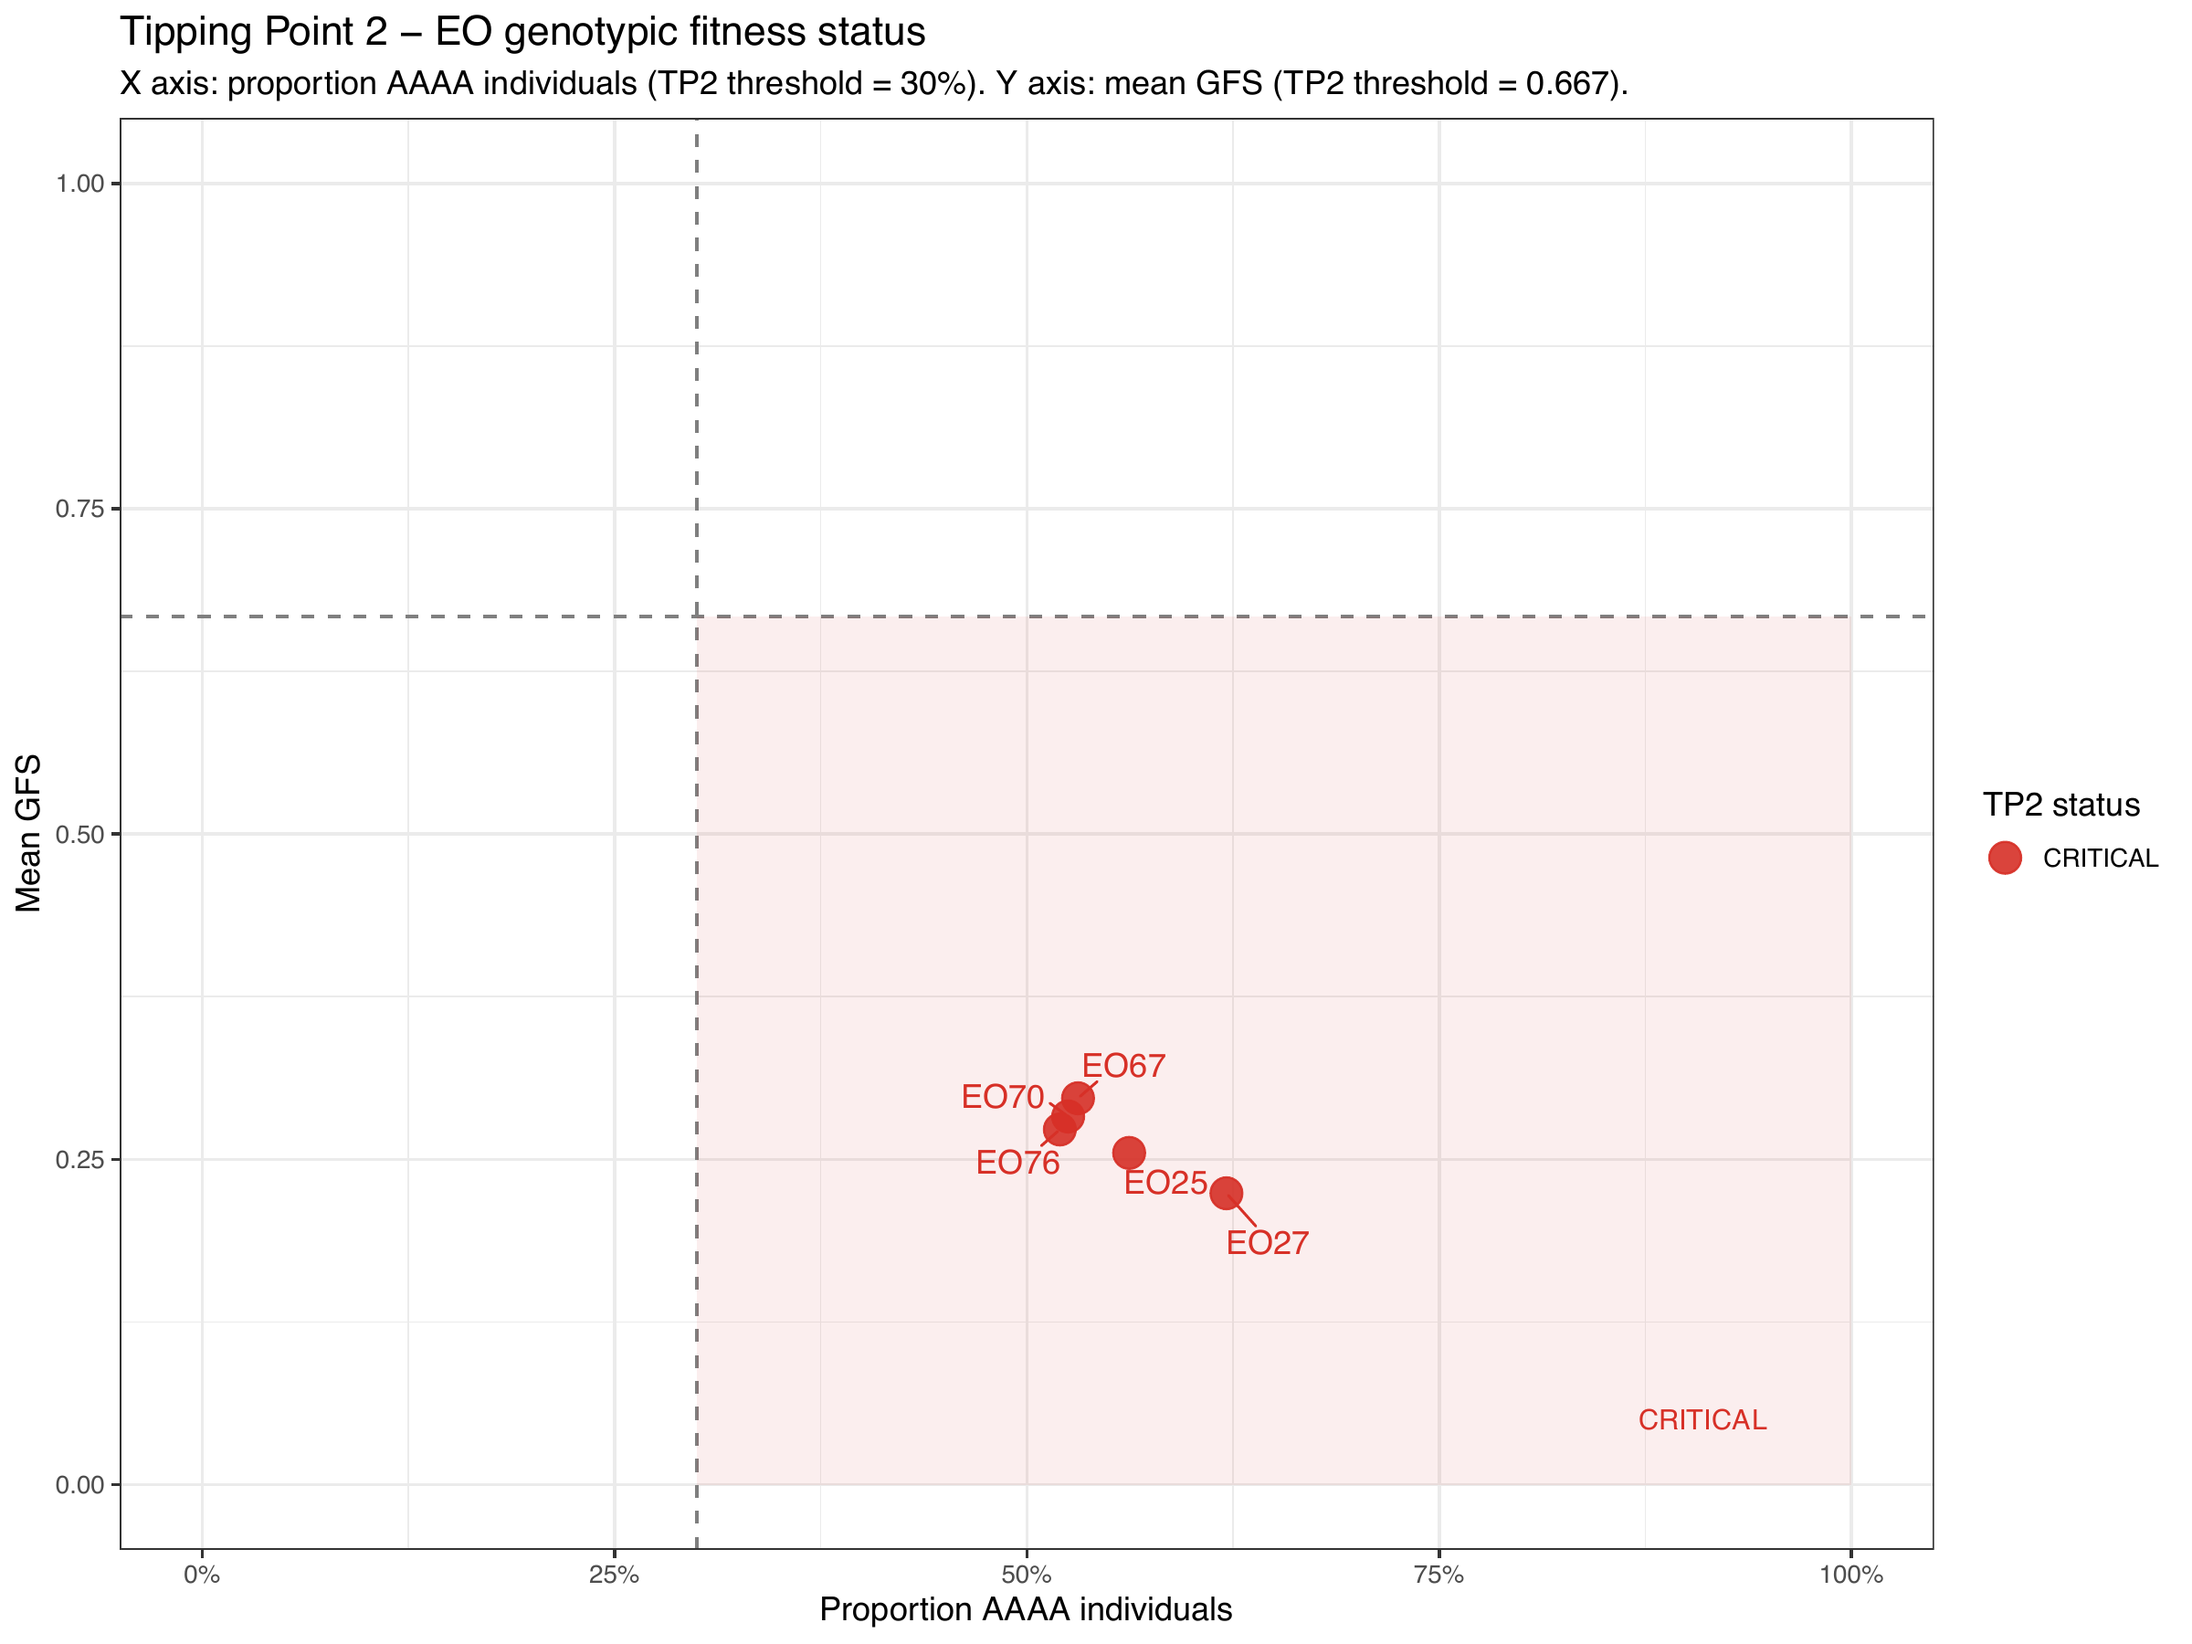
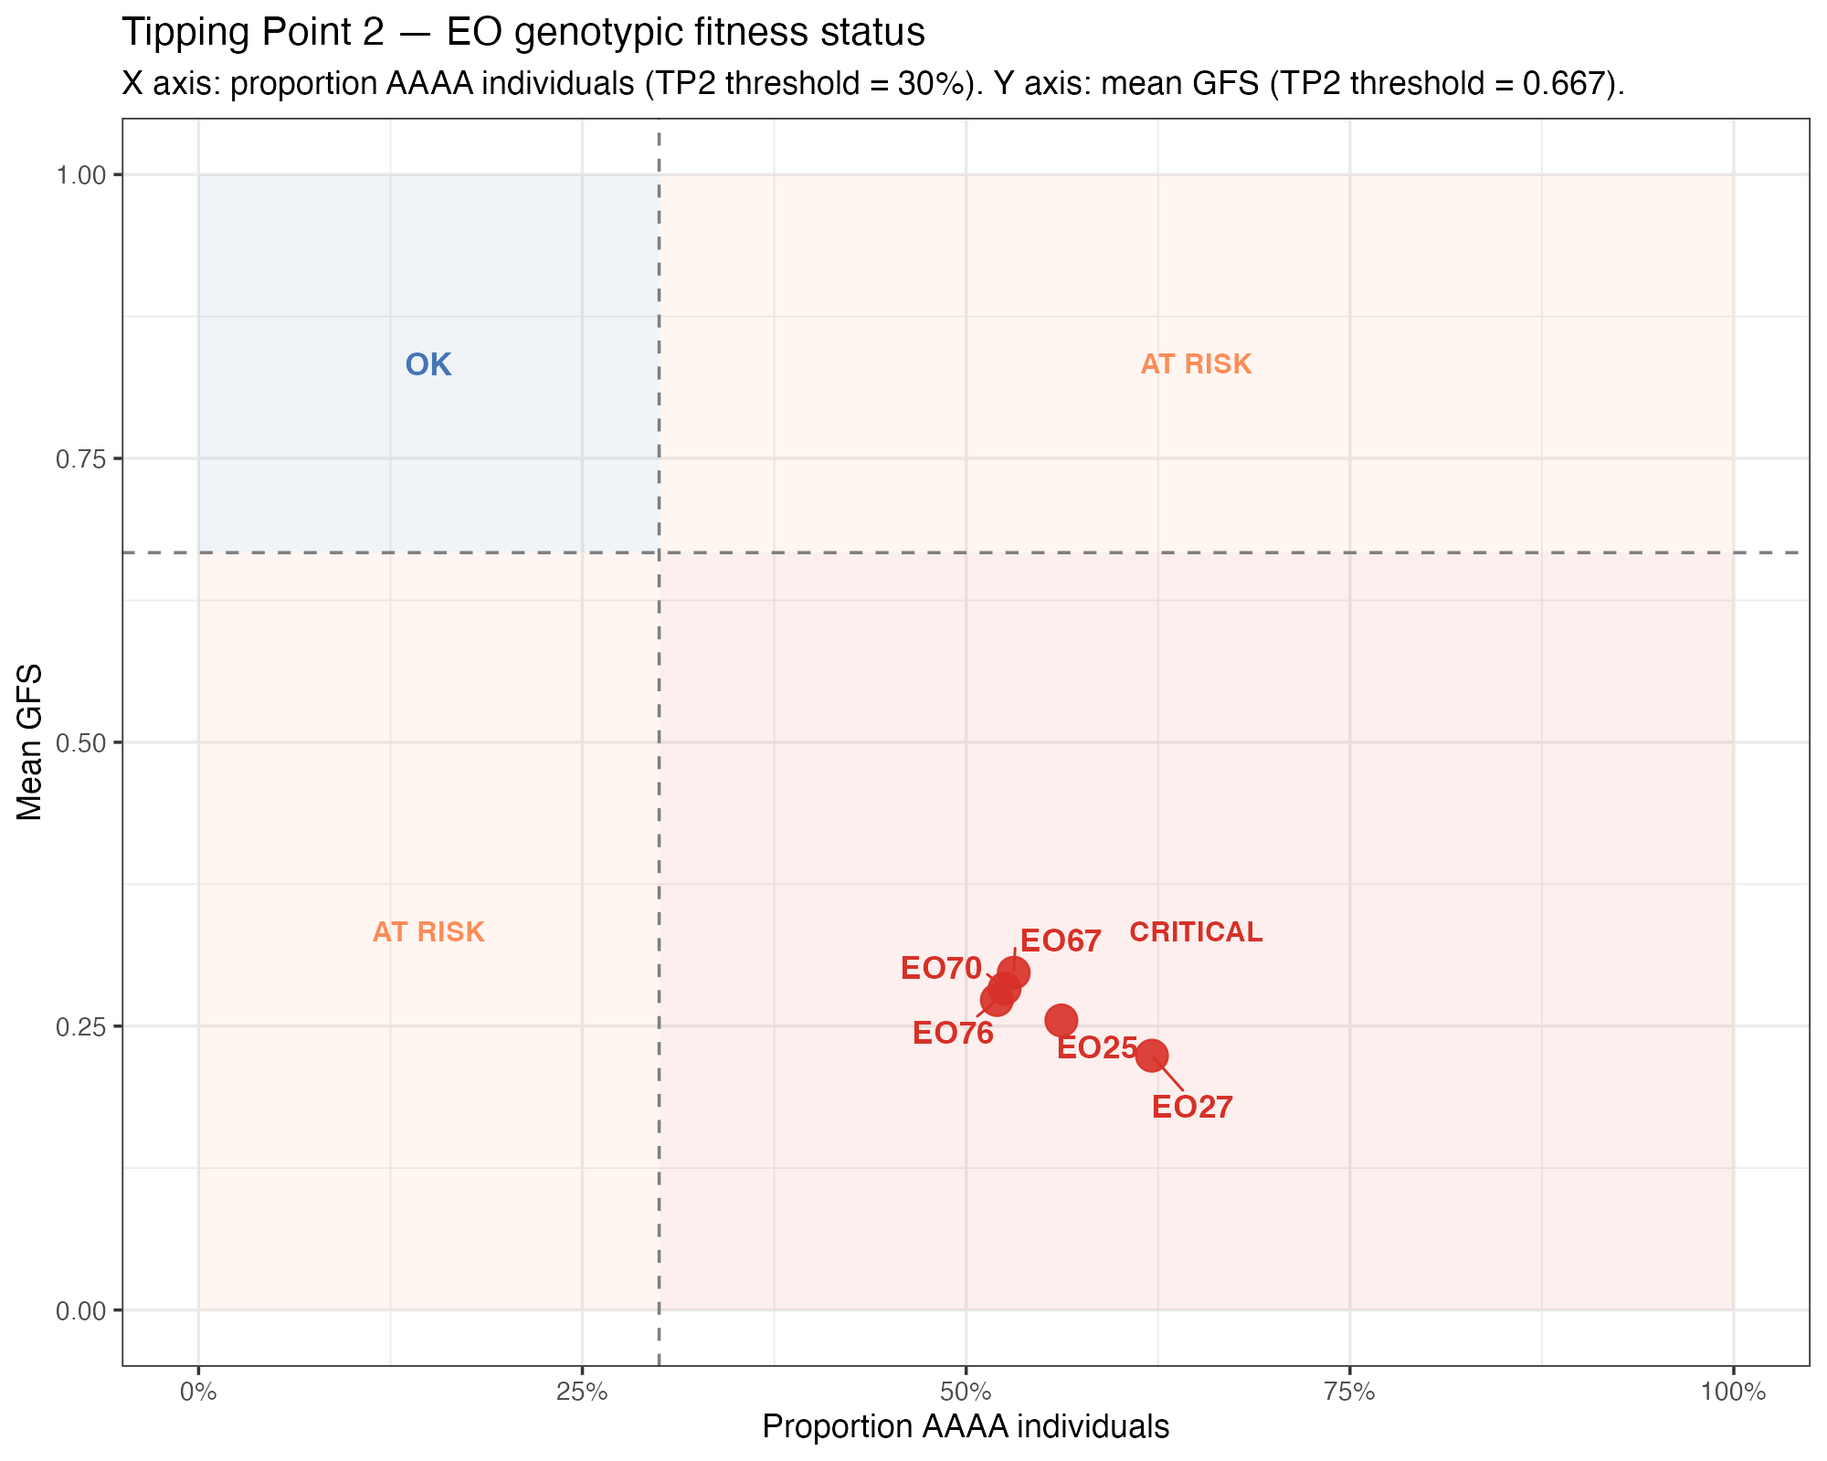
Updated pipeline with revised png figures

diff --git a/index.html b/index.html
@@ -11,7 +11,7 @@
 
 <meta name="author" content="Sven Buerki - Boise State University" />
 
-<meta name="date" content="2026-04-05" />
+<meta name="date" content="2026-04-06" />
 
 <title>SRK Bioinformatics</title>
 
@@ -1469,7 +1469,7 @@ border-radius: 0px;
 <h1 class="title toc-ignore">SRK Bioinformatics</h1>
 <h3 class="subtitle">Nanopore-Based SRK Haplotype Reconstruction and Population Analysis Pipeline</h3>
 <h4 class="author">Sven Buerki - Boise State University</h4>
-<h4 class="date">2026-04-05</h4>
+<h4 class="date">2026-04-06</h4>
 
 </div>
 
@@ -7127,7 +7127,7 @@ Late_fraction &lt; 0.10 → drift-dominated diversity</code></pre>
 <h4><span class="header-section-number">6.3.6.2</span> Output files</h4>
 <ul>
 <li><code>SRK_allele_accumulation_curves.pdf</code></li>
-<li><code>SRK_allele_accumulation_combined.pdf</code> — single-panel combined plot showing species and all EO accumulation curves on the same axes, with MM asymptote reference line; directly comparable across levels</li>
+<li><code>SRK_allele_accumulation_combined.png</code> — single-panel combined plot showing all EO accumulation curves on the same axes; end-of-curve labels show observed allele count and MM-predicted total (e.g. <code>EO27 (15/26)</code>); legend entries include <code>obs=</code> and <code>MM=</code> values</li>
 <li><code>SRK_allele_accumulation_stats.tsv</code></li>
 <li><code>SRK_species_richness_estimates.tsv</code></li>
 </ul>
@@ -7501,7 +7501,8 @@ cat(&quot;Allele bins:&quot;, length(allele_cols), &quot;\n&quot;)</code></pre>
 <p>EOs breaching both criteria are flagged <strong>CRITICAL</strong>; those breaching either one are flagged <strong>AT RISK</strong>; the remainder are <strong>OK</strong>.</p>
 <p><strong>Outputs:</strong>
 - <code>SRK_TP1_summary.tsv</code> — per-EO N_alleles, prop_optimum, evenness, and TP1 status
-- <code>SRK_TP1_tipping_point.pdf</code> — scatter plot positioning each EO by richness retained (x) and frequency evenness (y), with CRITICAL zone shading and threshold lines</p>
+- <code>SRK_TP1_tipping_point.png</code> — scatter plot positioning each EO by richness retained (x) and frequency evenness (y), with colour-coded zone polygons for all three categories (OK, AT RISK, CRITICAL) and threshold lines
+- <code>SRK_TP1_tipping_point_blank.png</code> — same plot without data points, for presentation use</p>
 <hr />
 </div>
 <div id="allelesharing" class="section level2" number="6.6">
@@ -7844,13 +7845,21 @@ python SRK_allele_sharing_EOs.py \
 <td><code>SRK_GFS_plots.pdf</code></td>
 <td>Four diagnostic plots (see below)</td>
 </tr>
+<tr class="odd">
+<td><code>SRK_GFS_plots_p3_TP2_tipping_point.png</code></td>
+<td>Standalone TP2 tipping point map with colour-coded zone polygons for all three categories (OK, AT RISK, CRITICAL)</td>
+</tr>
+<tr class="even">
+<td><code>SRK_GFS_plots_p3_TP2_tipping_point_blank.png</code></td>
+<td>Same plot without data points, for presentation use</td>
+</tr>
 </tbody>
 </table>
 </div>
 <div id="diagnostic-plots-1" class="section level4" number="6.8.3.2">
 <h4><span class="header-section-number">6.8.3.2</span> Diagnostic Plots</h4>
 <ol start="3" style="list-style-type: decimal">
-<li><strong>TP2 tipping point map</strong> — scatter plot of prop(AAAA) × mean GFS with quadrant shading; EOs labelled by TP2 status</li>
+<li><strong>TP2 tipping point map</strong> — scatter plot of prop(AAAA) × mean GFS with colour-coded zone polygons for OK, AT RISK, and CRITICAL categories; EOs labelled by TP2 status; also saved as standalone PNG</li>
 <li><strong>Absolute count stacked bar</strong> — raw individual counts per genotype class per EO</li>
 </ol>
 </div>

diff --git a/Bioinformatics_pipeline.md b/Bioinformatics_pipeline.md
@@ -494,7 +494,7 @@ Rscript SRK_allele_accumulation_analysis.R
 
 **Outputs:**
 - `SRK_allele_accumulation_curves.pdf` — species- and population-level curves with asymptote reference lines
-- `SRK_allele_accumulation_combined.pdf` — single-panel combined plot showing species and all EO accumulation curves on the same axes, with MM asymptote reference line; directly comparable across levels
+- `SRK_allele_accumulation_combined.png` — single-panel combined plot showing all EO accumulation curves on the same axes; end-of-curve labels show observed allele count and MM-predicted total (e.g. `EO27 (15/26)`); legend entries include `obs=` and `MM=` values
 - `SRK_allele_accumulation_stats.tsv` — curve statistics per level including MM, Chao1, iNEXT estimates and sampling adequacy targets
 - `SRK_species_richness_estimates.tsv` — **consensus species allele richness; required as input for Step 15**
 
@@ -557,7 +557,8 @@ EOs breaching both criteria are flagged **CRITICAL**; those breaching either one
 
 **Outputs:**
 - `SRK_TP1_summary.tsv` — per-EO N_alleles, prop_optimum, evenness, and TP1 status
-- `SRK_TP1_tipping_point.pdf` — scatter plot positioning each EO by richness retained (x) and frequency evenness (y), with CRITICAL zone shading and threshold lines
+- `SRK_TP1_tipping_point.png` — scatter plot positioning each EO by richness retained (x) and frequency evenness (y), with colour-coded zone polygons for all three categories (OK, AT RISK, CRITICAL) and threshold lines
+- `SRK_TP1_tipping_point_blank.png` — same plot without data points, for presentation use
 
 ---
 
@@ -668,6 +669,8 @@ EOs breaching both thresholds simultaneously are flagged **CRITICAL**; those bre
 |------|---------|
 | `SRK_EO_GFS_summary.tsv` | EO-level GFS statistics, class proportions, TP2 status |
 | `SRK_GFS_plots.pdf` | Four diagnostic plots: stacked bars (proportional + count), individual jitter, TP2 tipping point map |
+| `SRK_GFS_plots_p3_TP2_tipping_point.png` | Standalone TP2 tipping point map with colour-coded zone polygons for all three categories (OK, AT RISK, CRITICAL) |
+| `SRK_GFS_plots_p3_TP2_tipping_point_blank.png` | Same plot without data points, for presentation use |
 
 ---
 
